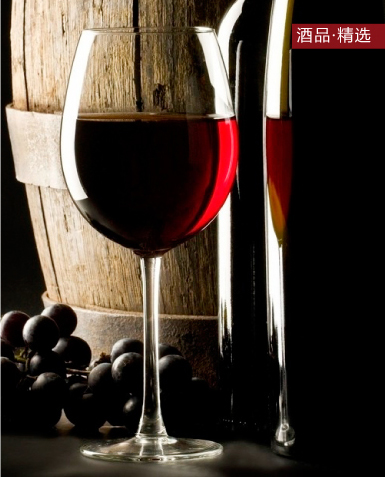
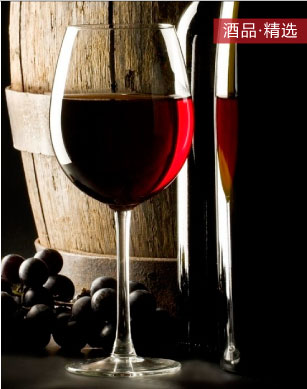
修改页面为居中等

diff --git a/wp/css/style.css b/wp/css/style.css
@@ -198,7 +198,7 @@ ul{list-style:none;}
 .content{margin-left:25px;margin-top:18px;}
 .content p{}
 .breadcrumb{font-size:14px;margin-top:17px;color:#000}
-.breadcrumb a{color:#000;}
+.breadcrumb a{color:#717271;}
 .red{color:#9D2229;}
 .arrow{margin:0 8px;}
 .alignright{float:right;padding-left:16px;}
@@ -237,6 +237,8 @@ ul{list-style:none;}
 #menu .s13:hover{background: url('../images/s13a.jpg') no-repeat 0 0;}
 #menu .s14{background: url('../images/s14.jpg') no-repeat 0 0;padding-left:48px;margin-top:-2px;font-weight:normal;}
 #menu .s14:hover{background: url('../images/s14a.jpg') no-repeat 0 0;}
+#menu .s15{background: url('../images/s7.jpg') no-repeat 0 0;padding-left:48px;margin-top:-2px;font-weight:normal;width:160px;}
+#menu .s15:hover{background: url('../images/s7a.jpg') no-repeat 0 0;}
 .homeright{padding-left:10px;}
 .grey{color:#595858;}
 .content h1{font-size:14px;}
@@ -259,19 +261,19 @@ ul{list-style:none;}
 .faguo .southfrance{top:147px;left:100px;}
 .origin{padding-right:50px;}
 .origin .link{font-size:16px;color:#868687;line-height:28px;background:  url('../images/greyspot.gif')  no-repeat 0 50%;padding-left:15px}
-.originintro{font-size:14px;line-height:26px;margin-top:25px;}
+.originintro{font-size:12px;}
 .wine{width:460px;margin-left:76px;}
 .productlist{width:388px;margin-left:198px;margin-top:15px;}
 .productlist .item{float:left;padding-right:10px;}
 .product{width:443px;margin-left:59px;margin-top:18px;}
 .tel{position:absolute;top:30px;left:707px;}
-.newslist{padding-left:71px;line-height:23px;}
+.newslist{line-height:23px;}
 .newslist li a:hover{font-weight:bold;}
 .p3{padding-left:71px;line-height:18px;}
 .qa{width:323px;line-height:32px;}
 .qa li a:hover{font-weight:bold;color:#000;text-decoration:underline;}
 .more{display:none;line-height:18px;background: url('../images/ico_more.gif') no-repeat 0 50%;height:18px;padding-left:20px;margin-left:334px;cursor:pointer;}
-.wp-pagenavi {clear: both;}
+.wp-pagenavi {clear: both;float: right;padding-right: 211px;}
 .wp-pagenavi a, .wp-pagenavi span {
 	text-decoration: none;
 	border: 1px solid #BFBFBF;
@@ -296,6 +298,8 @@ ul{list-style:none;}
 .underlying{position:absolute;left:100px;}
 .underlying li a{font-size:14px;color:#C6C8C8;display:block;background: url('../images/ping1.gif') no-repeat 0 50%;padding-left:17px;height:31px;line-height:31px;border-bottom:1px solid #C6C8C8;padding-bottom:3px;margin-bottom:3px;}
 .underlying li a:hover{color:#000;background: url('../images/ping2.gif') no-repeat 0 50%;}
+.innerwrap{width:900px;margin:0 auto;}
+.grey{color:#717271;}
 /* general */
 .left{float:left;}
 .right{float:right;}

diff --git a/wp/wp-content/themes/site/category-9.php b/wp/wp-content/themes/site/category-9.php
@@ -10,6 +10,7 @@
 get_header(); ?>
     <div class="main">
 		<div class="wrap">
+			<div class="innerwrap">
 				<div class="featured left"><img src="/images/cat9.jpg"/></div>
 				<div class="left w560">
 					<div class="breadcrumb">
@@ -21,7 +22,7 @@ if(function_exists('bcn_display'))
 ?>
 </div>
 					<div class="content">
-					<ul class="newslist left">
+					<ul class="newslist left" style="padding-left:68px;">
 							<?php if ( have_posts() ) : while ( have_posts() ) : the_post(); ?>
     		  <li>
 				<a href="<?php the_permalink() ?>" target="_top"><?php the_title();?></a>
@@ -32,7 +33,7 @@ if(function_exists('bcn_display'))
 										<?php wp_pagenavi(); ?>
 </div>
 					</div>
-				</div>
-				<div class="clear"></div></div>	
+				<div class="clear"></div>
+								</div>
 	</div>
 <?php get_footer(); ?>

diff --git a/wp/wp-content/themes/site/category-11.php b/wp/wp-content/themes/site/category-11.php
@@ -10,6 +10,7 @@
 get_header(); ?>
     <div class="main">
 		<div class="wrap">
+			<div class="innerwrap">
 				<div class="featured left"><img src="/images/cat11.jpg"/></div>
 				<div class="left w560">
 					<div class="breadcrumb">
@@ -21,7 +22,7 @@ if(function_exists('bcn_display'))
 ?>
 </div>
 					<div class="content">
-					<ul class="newslist left">
+					<ul class="newslist left" style="padding-left:68px;">
 							<?php if ( have_posts() ) : while ( have_posts() ) : the_post(); ?>
     		  <li>
 				<a href="<?php the_permalink() ?>" target="_top"><?php the_title();?></a>
@@ -31,7 +32,8 @@ if(function_exists('bcn_display'))
 										<?php wp_pagenavi(); ?>
 </div>
 					</div>
+					<div class="clear"></div>
 				</div>
-				<div class="clear"></div></div>	
+				
 	</div>
 <?php get_footer(); ?>

diff --git a/wp/wp-content/themes/site/page.php b/wp/wp-content/themes/site/page.php
@@ -10,8 +10,9 @@
 get_header(); ?>
     <div class="main">
 		<div class="wrap">
+			<div class="innerwrap">
 				<div class="featured left"><?php the_post_thumbnail('fullsize');?></div>
-				<div class="left w580">
+				<div class="left w560">
 					<div class="breadcrumb">
 <span class="red arrow">&gt;</span><?php
 if(function_exists('bcn_display'))
@@ -28,6 +29,7 @@ if(function_exists('bcn_display'))
 					<div class="more" href="#">显示更多</div>
 				</div>
 				<div class="clear"></div>
+			</div>
 	</div>
 <?php get_footer(); ?>
 

diff --git a/wp/wp-content/themes/site/taxonomy-product-category-frenchwine.php b/wp/wp-content/themes/site/taxonomy-product-category-frenchwine.php
@@ -10,8 +10,9 @@
 get_header(); ?>
     <div class="main">
 		<div class="wrap">
+			<div class="innerwrap">
 				<div class="featured left"><img src="/images/cat4.jpg"/></div>
-				<div class="left w560">
+				<div class="left w580">
 					<div class="breadcrumb">
 <span class="red arrow">&gt;</span><?php
 if(function_exists('bcn_display'))
@@ -47,6 +48,7 @@ if(function_exists('bcn_display'))
 </div>
 					</div>
 				</div>
-				<div class="clear"></div></div>	
+				<div class="clear"></div>
+				</div>
 	</div>
 <?php get_footer(); ?>

diff --git a/wp/wp-content/themes/site/single-product.php b/wp/wp-content/themes/site/single-product.php
@@ -10,6 +10,7 @@
 get_header(); ?>
   <div class="main">
 		<div class="wrap">
+			<div class="innerwrap">
 						  <?php				    
              /****************************************************************************************************
                 http://wordpress.org/support/topic/plugin-custom-field-template-use-media-picker-and-output-image 
@@ -40,6 +41,7 @@ if(function_exists('bcn_display'))
 					</div>
 				</div>
 				<div class="clear"></div>
+				</div>
 	</div>
 
 <?php get_footer(); ?>

diff --git a/wp/wp-content/themes/site/header.php b/wp/wp-content/themes/site/header.php
@@ -106,6 +106,8 @@ ddsmoothmenu.init({
 						<li><a href="#">行家&nbsp;·&nbsp;解密</a>
 							<ul>
 								<li><a class="s14" href="/?page_id=224" >常见问题</a></li>
+								<li><a class="s15" href="#" style="margin-left:-30px">旧世界/法国葡萄酒</a></li>
+								<li><a class="s8" href="#" style="margin-left:-10px">新世界葡萄酒</a></li>
 							</ul>
 						</li>
 						<li><a href="#">酒铺&nbsp;·&nbsp;服务</a>

diff --git a/wp/wp-content/themes/site/qa.php b/wp/wp-content/themes/site/qa.php
@@ -10,6 +10,7 @@
 get_header(); ?>
     <div class="main">
 		<div class="wrap">
+			<div class="innerwrap">
 				<div class="featured left"><?php the_post_thumbnail('fullsize');?></div>
 				<div class="left w580">
 					<div class="breadcrumb">
@@ -30,6 +31,7 @@ if(function_exists('bcn_display'))
 					<div class="more" href="#">显示更多</div>
 				</div>
 				<div class="clear"></div>
+				</div>
 	</div>
 <?php get_footer(); ?>
 

diff --git a/wp/wp-content/themes/site/single-11.php b/wp/wp-content/themes/site/single-11.php
@@ -10,6 +10,7 @@
 get_header(); ?>
   <div class="main">
 		<div class="wrap">
+			<div class="innerwrap">
 				<div class="featured left"><img src="/images/cat11.jpg"/></div>
 				<div class="left w560">
 					<div class="breadcrumb">
@@ -29,6 +30,7 @@ if(function_exists('bcn_display'))
 					</div>
 				</div>
 				<div class="clear"></div>
+				</div>
 	</div>
 
 <?php get_footer(); ?>

diff --git a/wp/wp-content/themes/site/single-9.php b/wp/wp-content/themes/site/single-9.php
@@ -10,6 +10,7 @@
 get_header(); ?>
   <div class="main">
 		<div class="wrap">
+			<div class="innerwrap">
 				<div class="featured left"><img src="/images/cat9.jpg"/></div>
 				<div class="left w560">
 					<div class="breadcrumb">
@@ -29,6 +30,7 @@ if(function_exists('bcn_display'))
 					</div>
 				</div>
 				<div class="clear"></div>
+				</div>
 	</div>
 
 <?php get_footer(); ?>

diff --git a/wp/wp-content/themes/site/taxonomy-product-category.php b/wp/wp-content/themes/site/taxonomy-product-category.php
@@ -10,6 +10,7 @@
 get_header(); ?>
     <div class="main">
     	<div class="wrap">
+    		<div class="innerwrap">
 				<div class="featured left"><img src="/images/cat8.jpg"/></div>
 				<div class="left w560 relative">
 					<div class="breadcrumb">
@@ -58,5 +59,6 @@ echo '</ul>';
 			</div>
     	</div>
     	<div class="clear"></div>
+    	</div>
     </div>
 <?php get_footer(); ?>
